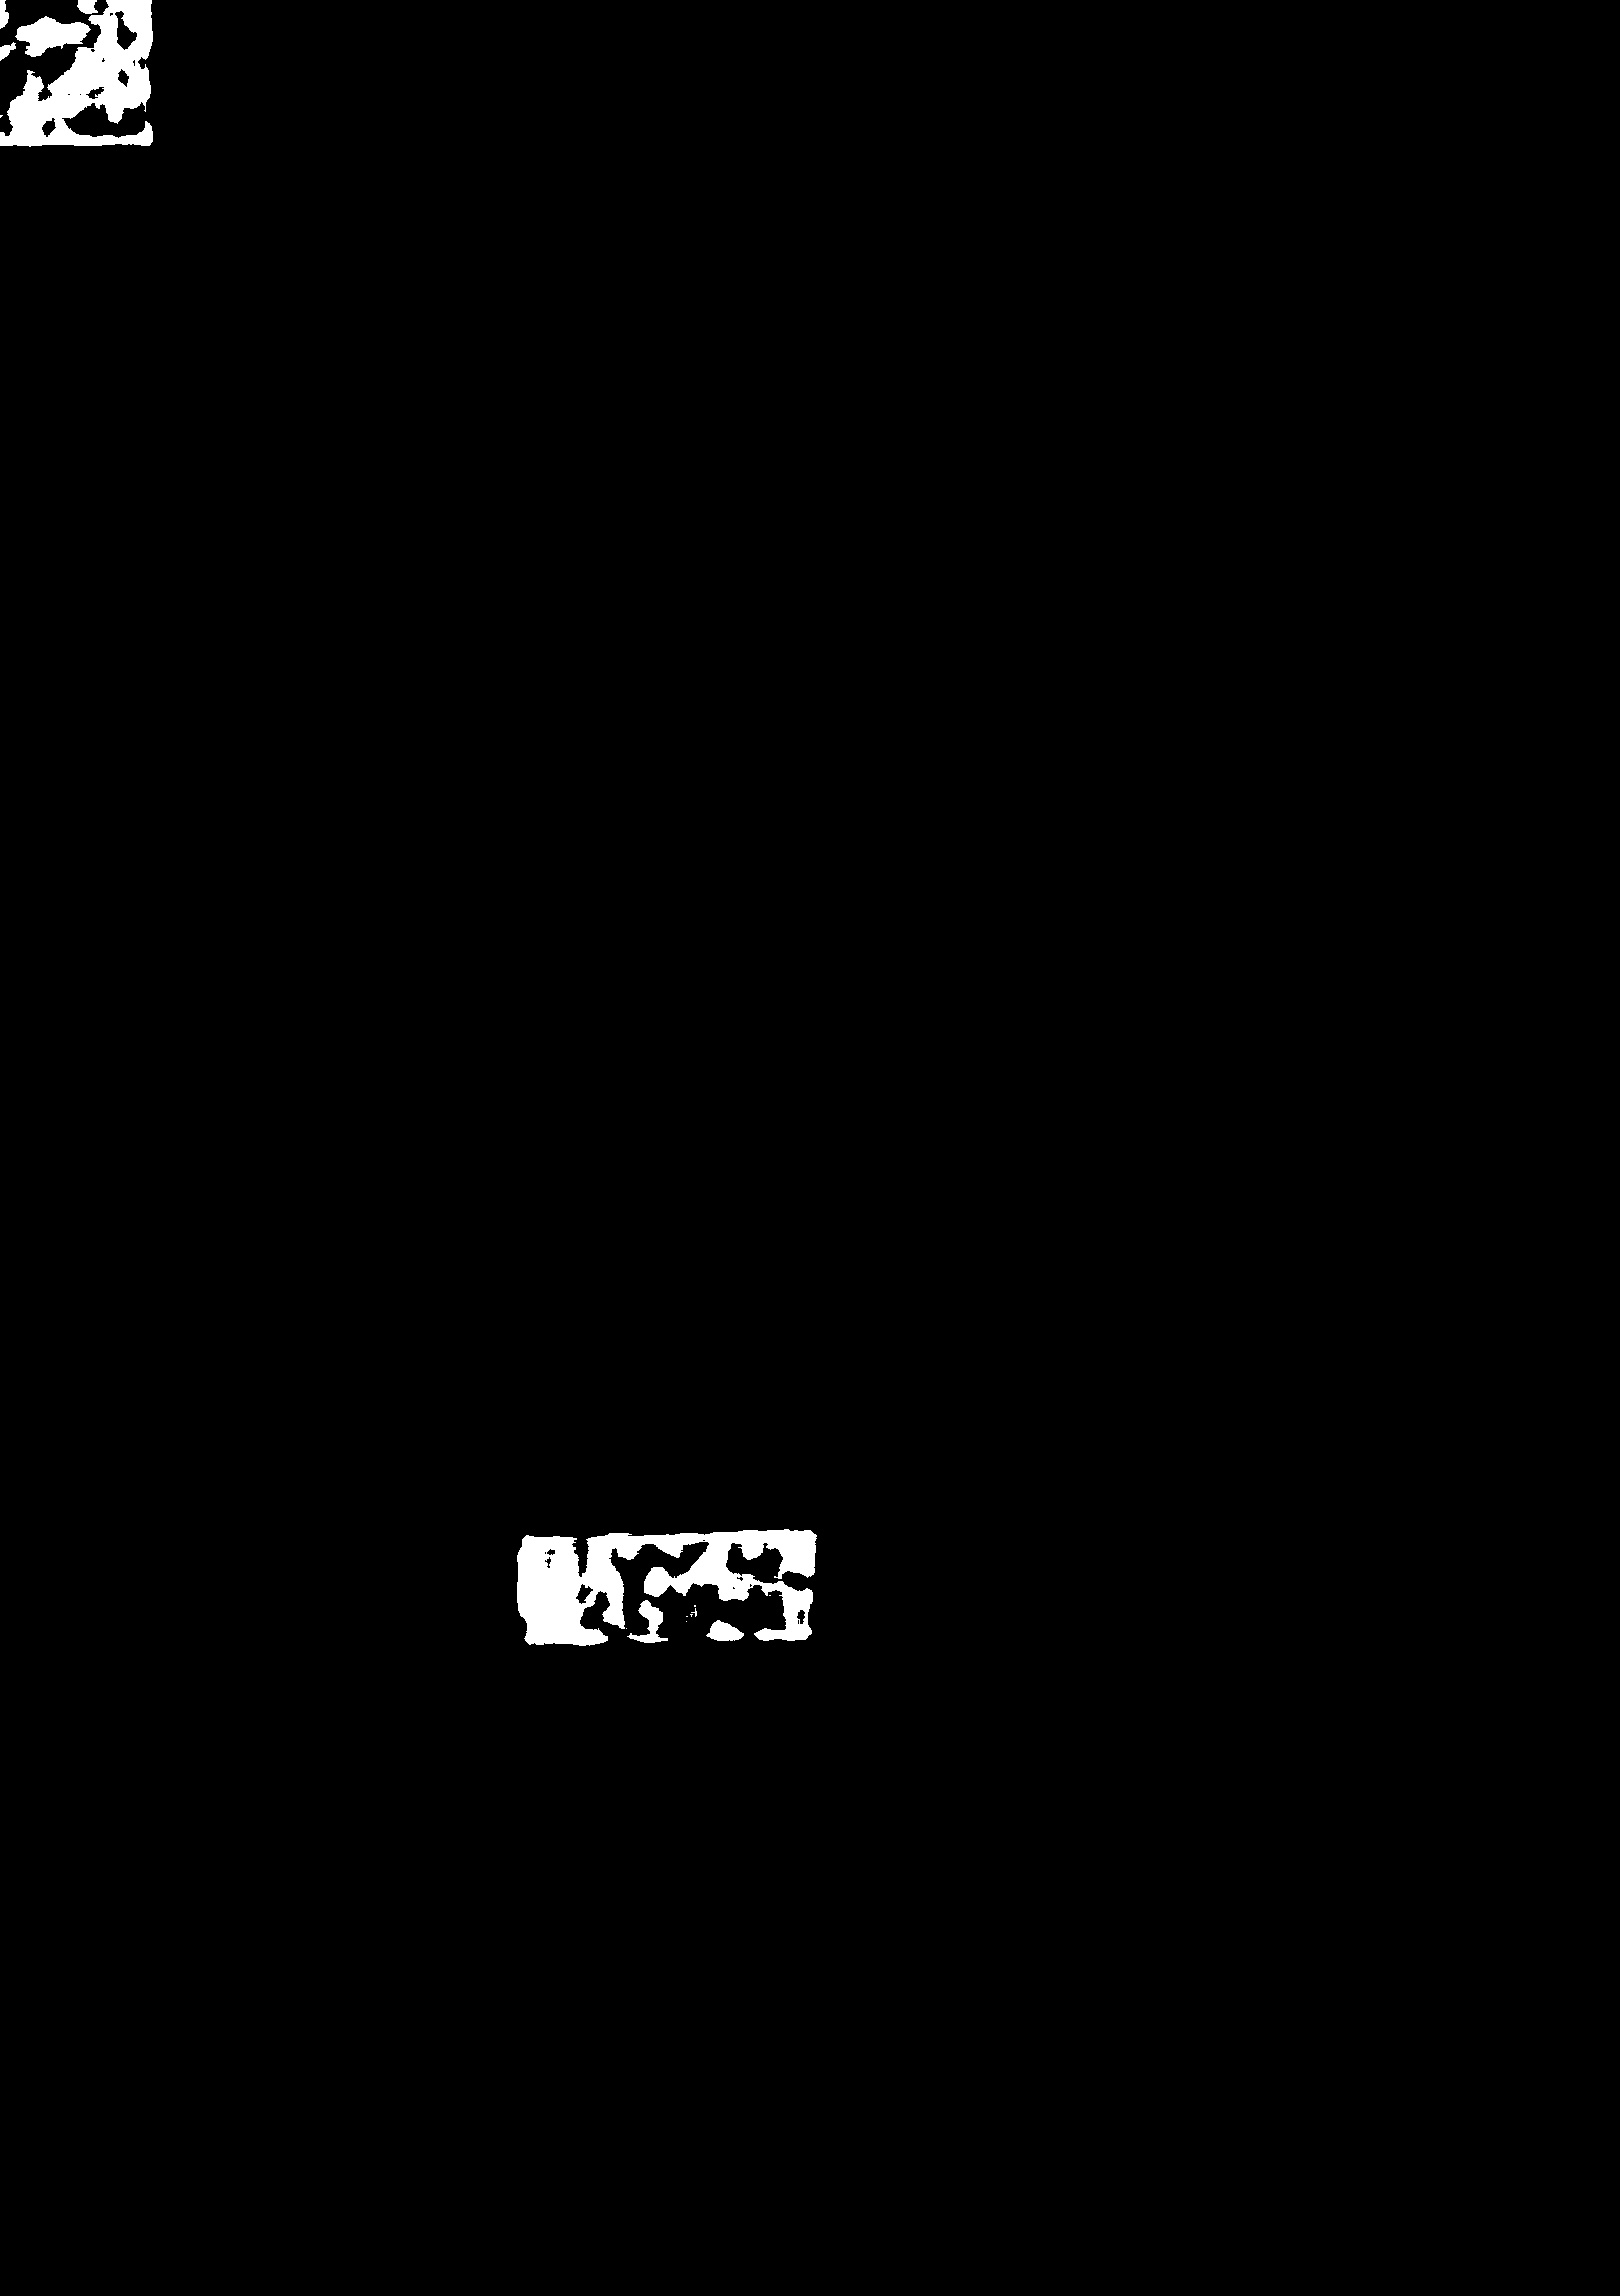
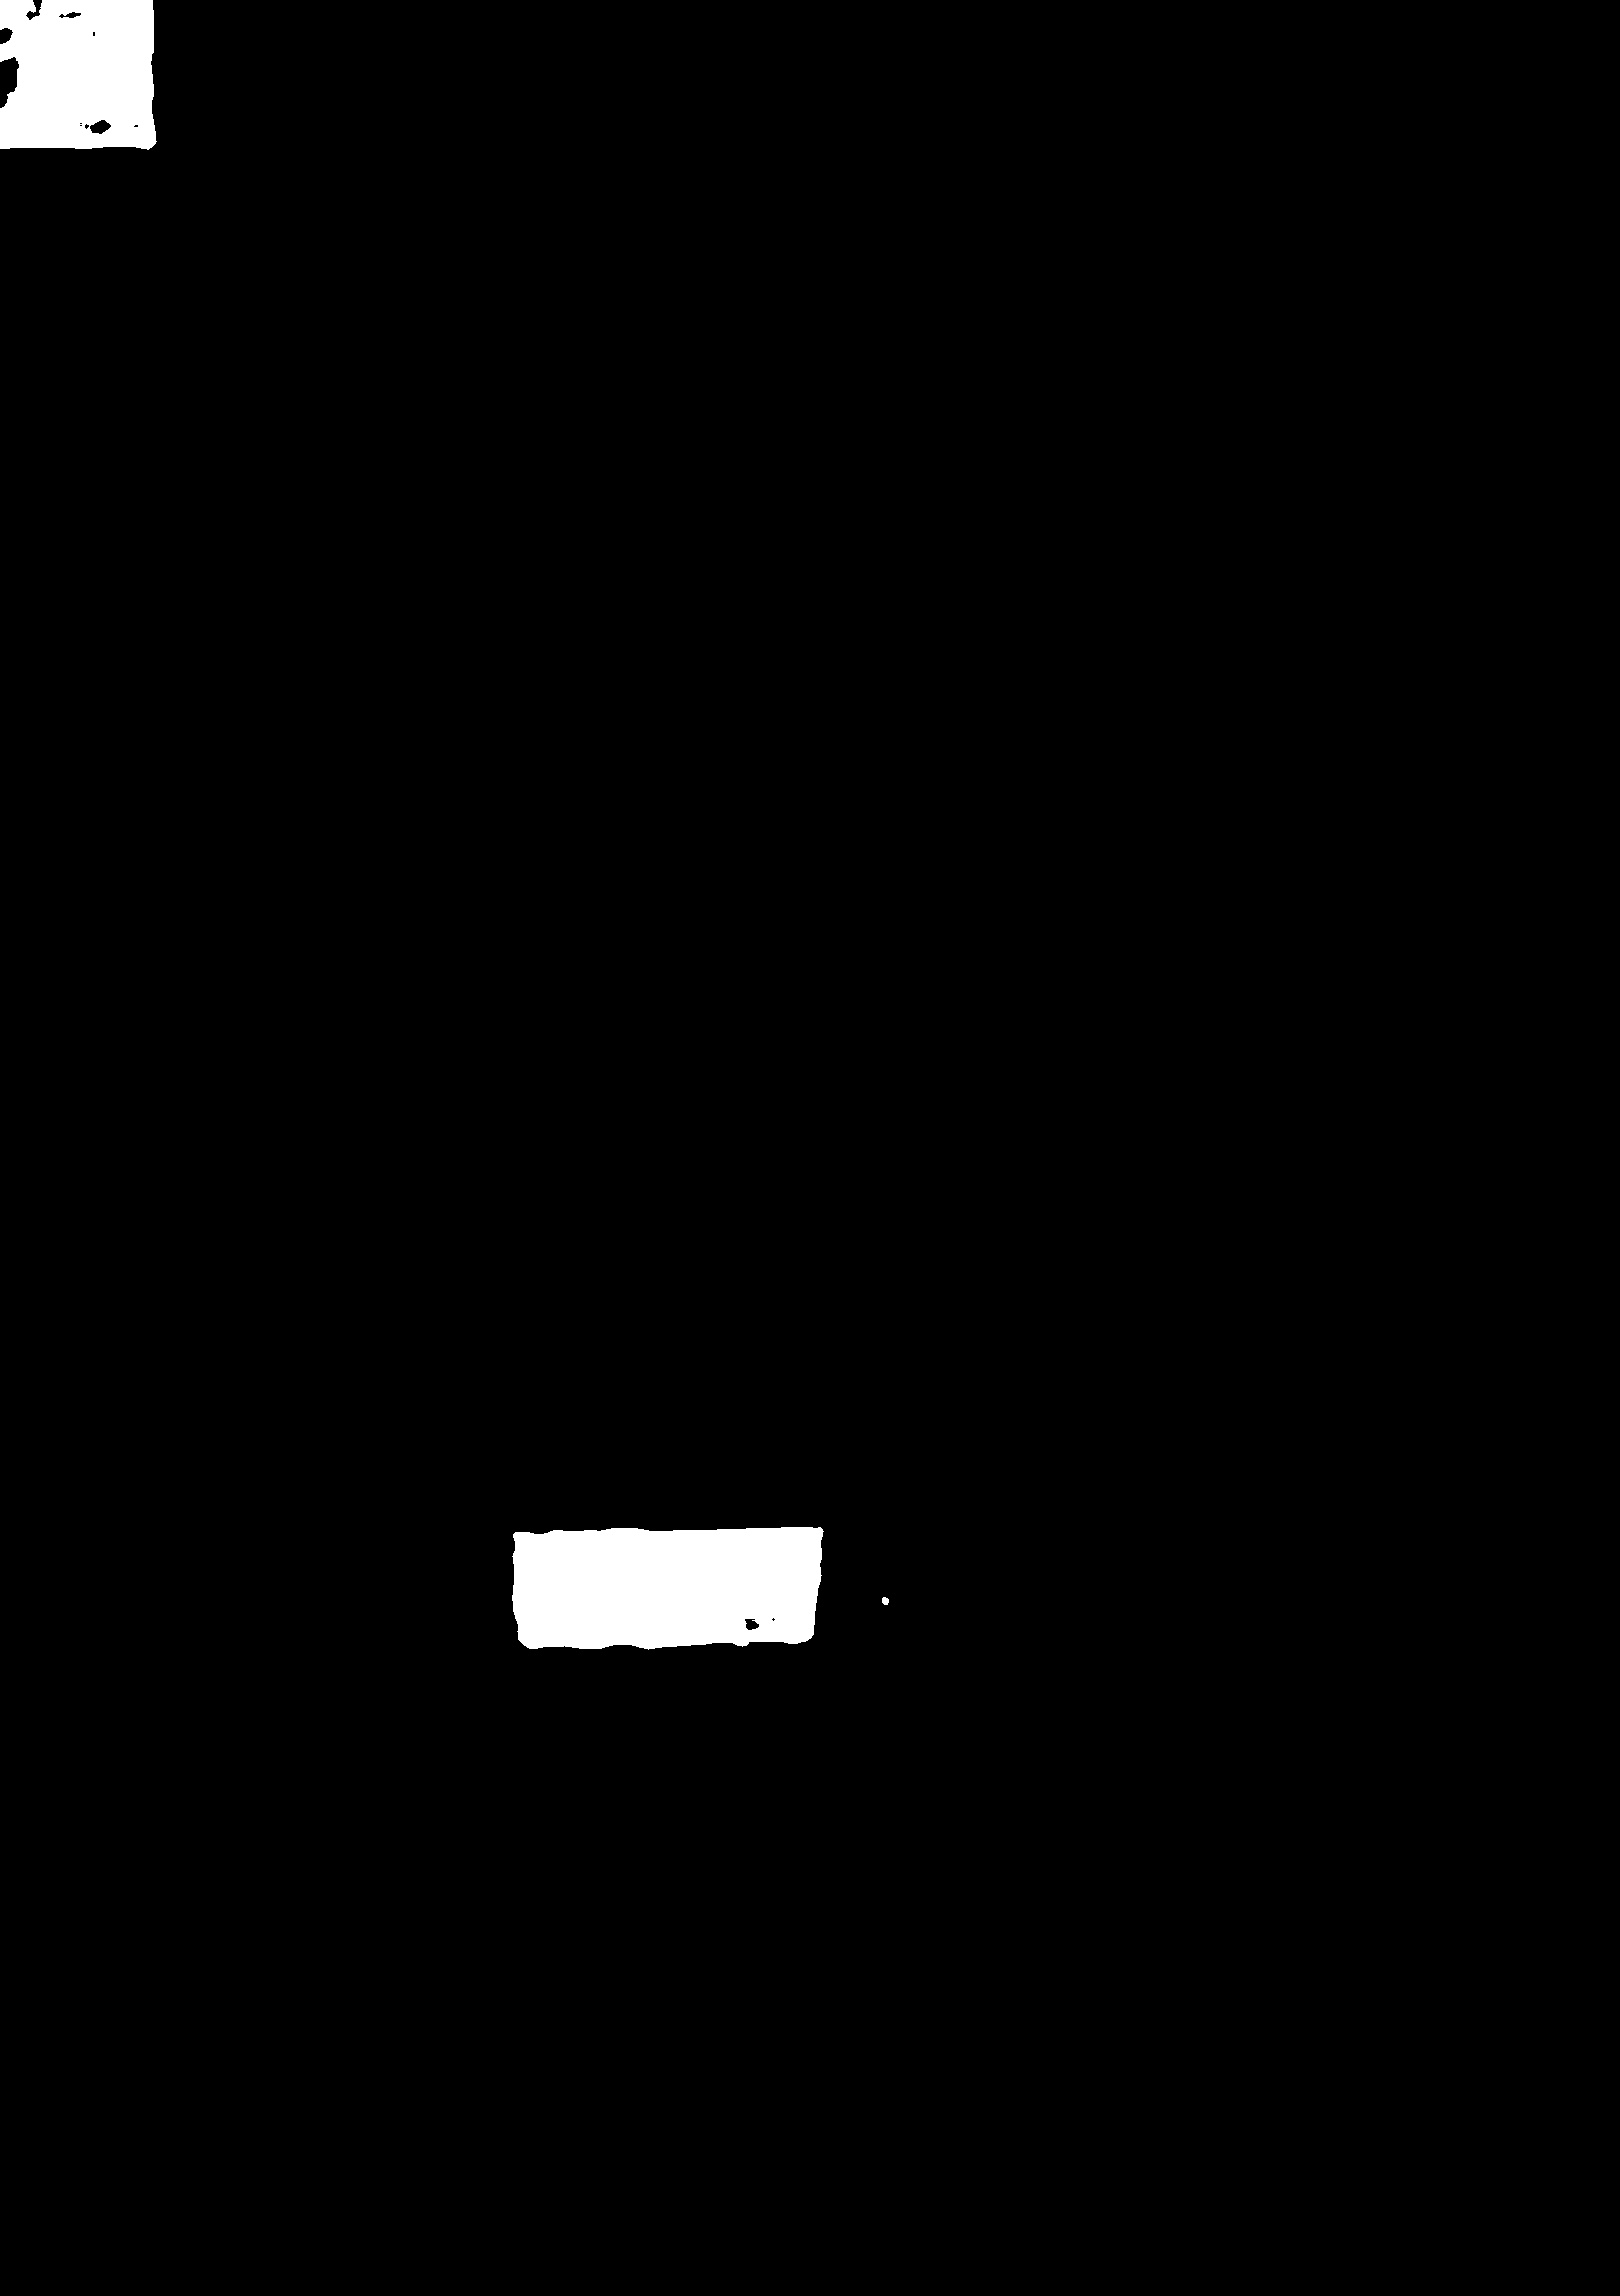
Added a DILATION effect. This way it works for the given example.

Changed region(s): [[0.3086, 0.6494, 0.5247, 0.7422], [0.0, 0.0, 0.0926, 0.0618]]

diff --git a/DetectApproxSquare.java b/DetectApproxSquare.java
@@ -51,9 +51,12 @@ public class DetectApproxSquare {
 
 		// gets the mean color in the "control card"
 		CvScalar detected_mean = mean(orgImg, 0, 0, size, size);
-		//CvScalar detected_mean = mean(orgImg, orgImg.width()-size, 0, size, size);
-		//CvScalar detected_mean = mean(orgImg, 0, orgImg.height()-size, size, size);
-		//CvScalar detected_mean = mean(orgImg, orgImg.width()-size, orgImg.height()-size, size, size);
+		// CvScalar detected_mean = mean(orgImg, orgImg.width()-size, 0, size,
+		// size);
+		// CvScalar detected_mean = mean(orgImg, 0, orgImg.height()-size, size,
+		// size);
+		// CvScalar detected_mean = mean(orgImg, orgImg.width()-size,
+		// orgImg.height()-size, size, size);
 
 		// gets the color from the "control card" and recognizes it
 		getControlColor(detected_mean);
@@ -74,8 +77,12 @@ public class DetectApproxSquare {
 		// checks the parts of the image in the range of the color chosen
 		cvInRangeS(imgHSV, cvScalar(iLowH, iLowS, iLowV, 0),
 				cvScalar(iHighH, iHighS, iHighV, 0), imgThresh);
+		
+		//added a dilation effect
+		cvMorphologyEx(imgThresh, imgThresh, null, null, CV_MOP_DILATE, 1);
+		
 		// smooths the image according to the different parameters
-		cvSmooth(imgThresh, imgThresh, CV_MEDIAN, 15, 0, 0, 0);
+		cvSmooth(imgThresh, imgThresh, CV_MEDIAN, size, 0, 0, 0);
 
 		// temporary saves the HSV image (NO IDEA WHY I HAVE TO)
 		cvSaveImage("Temp_HSV.jpg", imgThresh);
@@ -108,14 +115,17 @@ public class DetectApproxSquare {
 		g = (int) color.green();
 		b = (int) color.blue();
 
-		System.out.println("The RGB color detected is: (" + r + ", " + g + ", " + b + ")");
-		System.out.println();
+		System.out.println("The RGB color detected is: (" + r + ", " + g + ", "
+				+ b + ")");
 
 		// converts the RGB color to HSV values - only H matters (apparently)
 		float[] hsv = Color.RGBtoHSB(r, g, b, null);
 		h = (int) (hsv[0] * 180);
 		// s = (int) (hsv[1] * 100);
 		// v = (int) (hsv[2] * 100);
+		
+		System.out.println("The H value is: " + h);
+		System.out.println();
 
 		// orange
 		if (h > 0 && h <= 22) {
@@ -174,25 +184,26 @@ public class DetectApproxSquare {
 		CvSeq cont = new CvSeq();
 
 		// finds the contours of the figures in the grayscale image
+		// CV_RETR_EXTERNAL retrieves only the extreme outer contours
 		cvFindContours(gry, storage, contours, Loader.sizeof(CvContour.class),
-				CV_RETR_CCOMP, CV_CHAIN_APPROX_NONE, new CvPoint());
-
+				CV_RETR_EXTERNAL, CV_CHAIN_APPROX_NONE, new CvPoint());
+		
 		// counts the contours
 		int count = 1;
 
-		//checks if there are rectangles detected
+		// checks if there are rectangles detected
 		if (contours.address() == 0)
 			System.out.println("No rectangles detected!");
 
-		//in this case, the loop can work
+		// in this case, the loop can work
 		else {
 			// loops around the contours
 			for (cont = contours; cont != null; cont = cont.h_next()) {
-
+				
 				// draws the contours of the identified colored shape
-				CvScalar color = CvScalar.BLUE;
-				cvDrawContours(cpy, cont, color, CV_RGB(0, 0, 0), -1,
-						CV_FILLED, 8, cvPoint(0, 0));
+//				CvScalar color = CvScalar.BLUE;
+//				cvDrawContours(cpy, cont, color, CV_RGB(0, 0, 0), -1,
+//						CV_FILLED, 8, cvPoint(0, 0));
 
 				// creates the bounding rectangle around the contours
 				CvRect sq = cvBoundingRect(cont, 0);
@@ -218,15 +229,16 @@ public class DetectApproxSquare {
 					bl.x(sq.x());
 					bl.y(sq.y() + sq.height());
 
-					System.out.println("Contour " + count);
+					System.out.println("Rectangle" + count);
 					System.out.println("Coordinates: " + tl + tr + br + bl);
-					System.out.println("");
-
+					System.out.println();
+					
 					// draws the rectangle
 					cvRectangle(cpy, tl, br, CV_RGB(255, 0, 0), 2, 8, 0);
-
-					// increases the contours counter
+					
 					count++;
+					
+					// increases the contours counter
 				}
 			}
 
